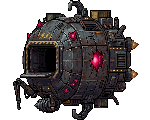
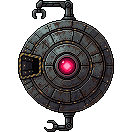
Redraw the Salvage Leviathan as a flat side view with matching drones
The boss now follows Justin's layout sketch: a round hull seen straight on,
the core in the centre, the hangar on the front rim and a docking arm top and
bottom. The beam drones are redrawn at the boss's pixel size so their linework
matches, and hang from the arms' claws by a fin until phase 2.

tools/art/leviathan.py builds both sprites from their SpriteCook sources.

diff --git a/tools/art/leviathan.py b/tools/art/leviathan.py
@@ -1,0 +1,56 @@
+"""Build the Salvage Leviathan and its beam drone from their SpriteCook sources.
+
+  boss:   the source is a flat side-on disc 96 px across with a docking arm on
+          top and a smaller one underneath. The top arm's boom is lengthened so
+          its claw hangs past the hull's shoulder, with room for a drone below
+          it, then the arm is mirrored onto the bottom so both docks match.
+  drone:  cut from a sheet where SpriteCook drew the drones beside the boss, so
+          they share its pixel size and line weight.
+Both are then scaled 6/5 with nearest-neighbour, which keeps their hard pixels
+and makes the disc 115 px: the boss's hit radius.
+Usage: uv run --no-project --with pillow python tools/art/leviathan.py
+"""
+from PIL import Image, ImageEnhance
+
+SRC = "art/source/bosses/"
+OUT = "art/sprites/bosses/"
+SCALE = 1.2
+ARM_ROWS = 19  # source rows above the disc that hold the top arm
+BOOM_ROWS = 8  # of those, the rows of the horizontal boom
+BOOM_SPLIT = 40  # the boom is cut at this column, just left of its elbow...
+BOOM_EXTRA = 14  # ...and this many columns of plain boom are added there
+ARM_SHADE = 0.85  # the mirrored arm sits on the unlit underside
+DRONE_BOX = (5, 88, 31, 119)  # the lower drone on the sheet
+
+
+def _scaled(im: Image.Image) -> Image.Image:
+    im.putalpha(im.getchannel("A").point(lambda v: 255 if v > 110 else 0))
+    return im.resize((round(im.size[0] * SCALE), round(im.size[1] * SCALE)), Image.NEAREST)
+
+
+def boss() -> Image.Image:
+    im = Image.open(SRC + "salvage_leviathan_source.png").convert("RGBA")
+    im = im.crop(im.getbbox())
+    w, h = im.size
+    arm = im.crop((0, 0, w, ARM_ROWS))
+    longer = Image.new("RGBA", arm.size, (0, 0, 0, 0))
+    longer.paste(arm.crop((BOOM_EXTRA, 0, BOOM_SPLIT, ARM_ROWS)), (0, 0))
+    longer.paste(arm.crop((BOOM_SPLIT - BOOM_EXTRA, 0, BOOM_SPLIT, BOOM_ROWS)), (BOOM_SPLIT - BOOM_EXTRA, 0))
+    longer.paste(arm.crop((BOOM_SPLIT, 0, w, ARM_ROWS)), (BOOM_SPLIT, 0))
+    im.paste(longer, (0, 0))
+    under = longer.transpose(Image.FLIP_TOP_BOTTOM)
+    shaded = ImageEnhance.Brightness(under.convert("RGB")).enhance(ARM_SHADE)
+    shaded.putalpha(under.getchannel("A"))
+    im.paste(shaded, (0, h - ARM_ROWS))
+    return _scaled(im)
+
+
+def drone() -> Image.Image:
+    sheet = Image.open(SRC + "leviathan_drone_sheet_source.png").convert("RGBA")
+    return _scaled(sheet.crop(DRONE_BOX))
+
+
+if __name__ == "__main__":
+    for name, img in {"salvage_leviathan.png": boss(), "beam_drone.png": drone()}.items():
+        img.save(OUT + name)
+        print(OUT + name, img.size)
